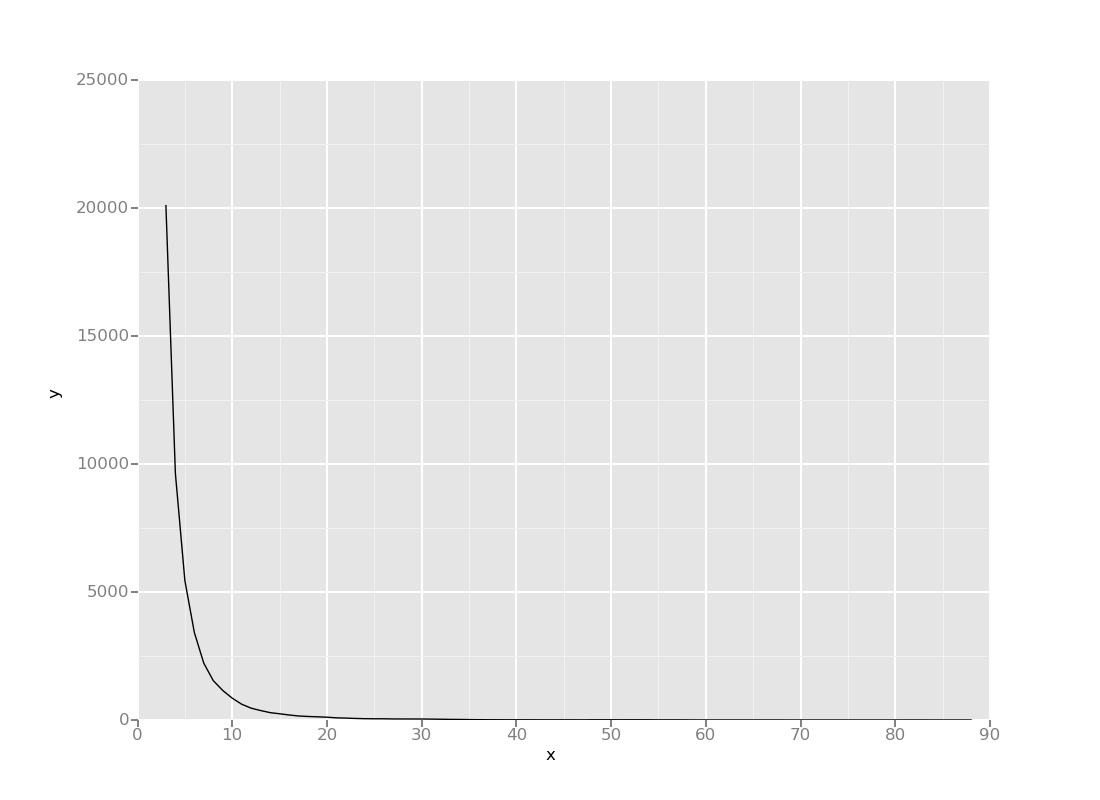
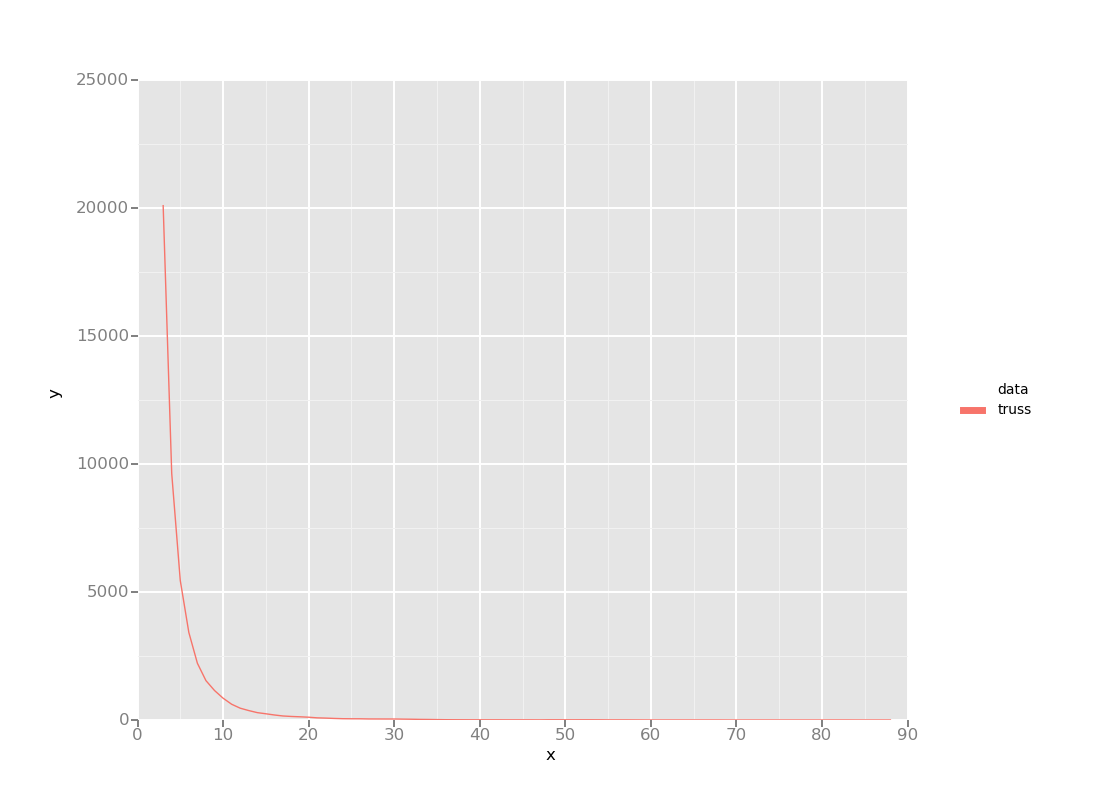
sth

diff --git a/scripts/data_analysis.py b/scripts/data_analysis.py
@@ -179,7 +179,7 @@ class JsonStatsCollections:
         for c in self.coll: 
             if is_freq == False:
                 d = self.transformDataGgPlot(c)
-                p = ggplot(aes(x='x', y='y'), data = d) + geom_line();
+                p = ggplot(aes(x='x', y='y', colour='data'), data = d) + geom_line();
                 print ofname
                 p.save(ofname)
 
